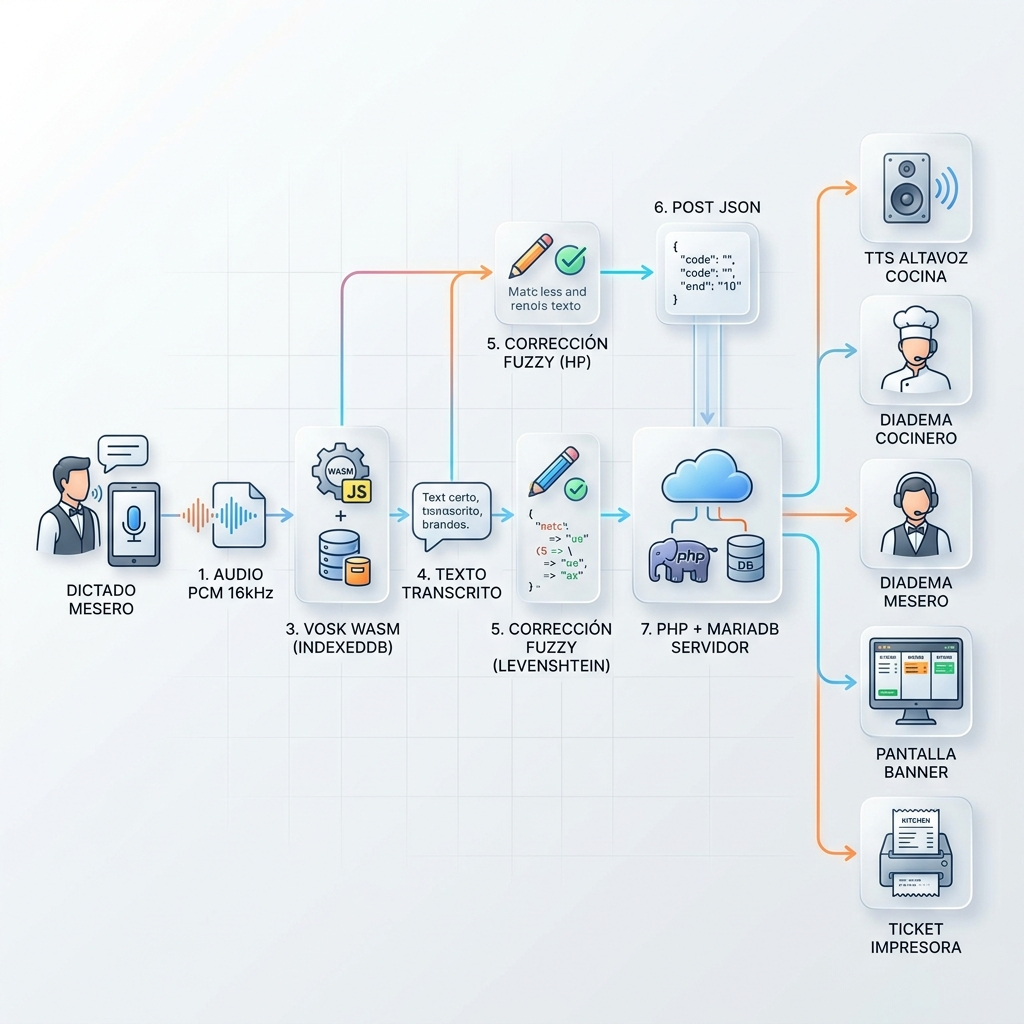
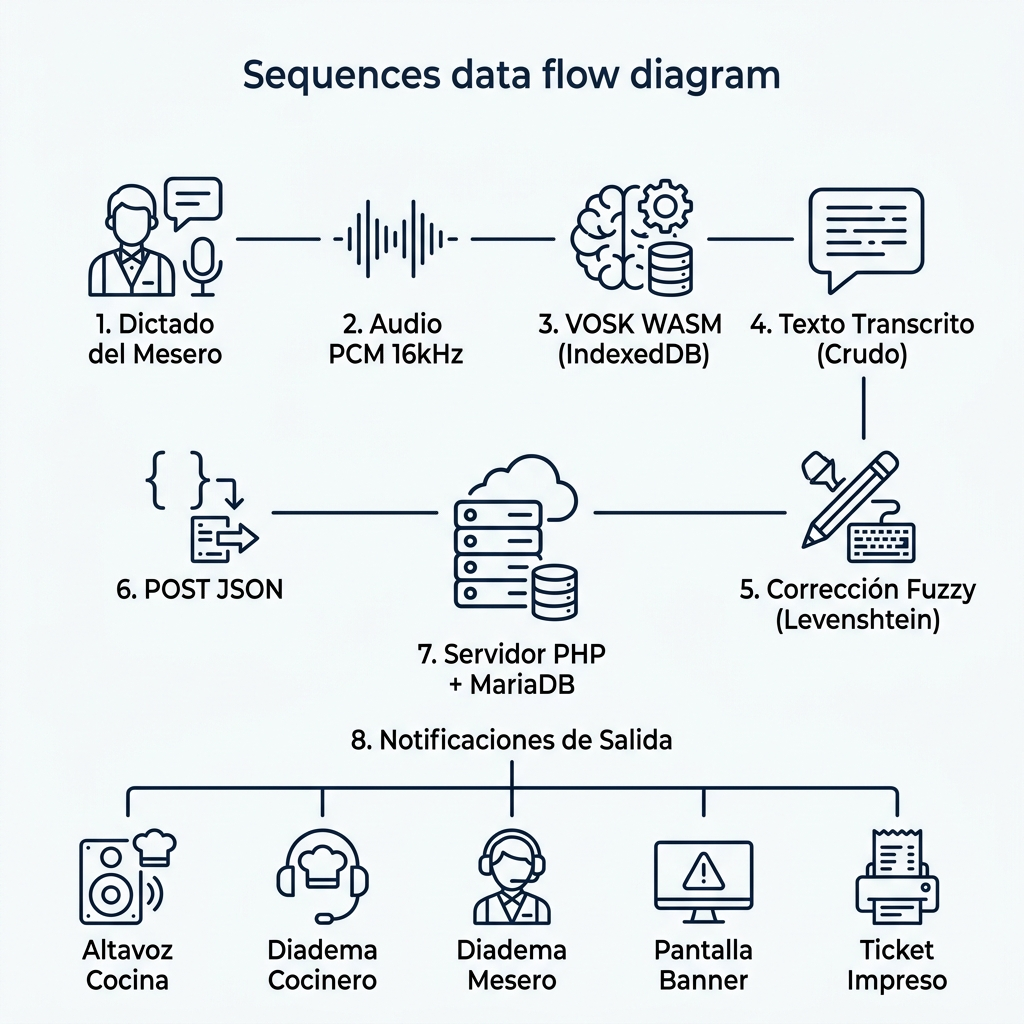
docs(vosk): redesign minimalist diagrams & add consolidated grammar tables

diff --git a/restaurantb/docs/Funcional_Flujos_Trabajo_Comandas_VOSK.html b/restaurantb/docs/Funcional_Flujos_Trabajo_Comandas_VOSK.html
@@ -157,6 +157,157 @@
   </ul>
 </section>
 
+<!-- ═══════════════ 8. CATÁLOGO COMPLETO DE GRAMÁTICA DE VOZ ═══════════════ -->
+<section id="sec8">
+  <h2>8. Catálogo Completo de Gramática de Voz y Comandos Operativos</h2>
+  <p>Esta sección reúne y consolida en tablas descriptivas todas las frases, oraciones y comandos reconocidos por el sistema, tanto en el flujo ordinario como en el manejo de excepciones y errores para cada uno de los actores.</p>
+
+  <h3 id="sec8-1">8.1. Gramática y Dictados de Voz del Mesero (PWA + VOSK WASM)</h3>
+  <p>La PWA del mesero implementa un motor VOSK con vocabulario amplio (catálogo de productos del restaurante, números y palabras de control). Soporta corrección difusa de palabras mediante el algoritmo Levenshtein con un límite máximo de distancia de 3 caracteres.</p>
+
+  <table>
+    <caption>Tabla 8. Catálogo de Frases y Excepciones para el Mesero</caption>
+    <thead>
+      <tr>
+        <th>Propósito / Evento</th>
+        <th>Gramática / Frase Base</th>
+        <th>Ejemplos de Dictado</th>
+        <th>Respuesta Auditiva (TTS)</th>
+        <th>Comportamiento ante Fallo / Excepción</th>
+      </tr>
+    </thead>
+    <tbody>
+      <tr>
+        <td><strong>Toma de Comanda Normal</strong></td>
+        <td><code>"Mesa [N], [cantidad] [producto], [cantidad] [producto]..."</code></td>
+        <td><em>"Mesa cinco, dos tacos al pastor con todo, una coca de medio"</em></td>
+        <td>(Ninguna en la diadema del mesero. Se emite por el altavoz de cocina: <em>"Nueva orden: mesa cinco, dos tacos al pastor, una coca de medio"</em>)</td>
+        <td><strong>Sin número de mesa:</strong> Tono de alerta en diadema y bloqueo físico del botón enviar.<br><strong>Producto no reconocido:</strong> Se resalta el término no identificado en color rojo en la pantalla para su edición manual antes del envío.</td>
+      </tr>
+      <tr>
+        <td><strong>Solicitud de Cancelación</strong></td>
+        <td><code>"Cancelar [producto] de mesa [N]"</code></td>
+        <td><em>"Cancelar agua de horchata de mesa cinco"</em></td>
+        <td><em>"Solicitud de cancelación enviada a cocina. Espere confirmación."</em></td>
+        <td><strong>Producto no existente:</strong> <em>"El producto no se encuentra en la comanda de la mesa cinco"</em>.<br><strong>Orden ya lista/entregada:</strong> <em>"Cancelación rechazada. La orden ya está terminada"</em>.<br><strong>Expiración (30 segundos sin respuesta del cocinero):</strong> <em>"Cancelación expirada por falta de confirmación en cocina"</em>.</td>
+      </tr>
+      <tr>
+        <td><strong>Cierre de Cuenta</strong></td>
+        <td><code>"Cerrar cuenta de mesa [N]"</code> o <code>"La cuenta de mesa [N] se va a cerrar"</code></td>
+        <td><em>"Cerrar cuenta de mesa cinco"</em></td>
+        <td><em>"Cuenta de mesa cinco. Total ciento cuarenta y cinco pesos. Tres productos. Ticket enviado a impresión."</em></td>
+        <td><strong>Mesa sin órdenes activas:</strong> <em>"No hay consumos registrados para la mesa cinco"</em>.<br><strong>Mesero no asignado a la mesa:</strong> <em>"Acceso denegado. Mesa asignada a otro mesero"</em>.</td>
+      </tr>
+      <tr>
+        <td><strong>Repetir Última Comanda</strong></td>
+        <td><code>"Repetir comanda de mesa [N]"</code></td>
+        <td><em>"Repetir comanda de mesa cinco"</em></td>
+        <td><em>"Mostrando última comanda de mesa cinco"</em></td>
+        <td><strong>Sin historial previo en esa mesa:</strong> <em>"No hay registros anteriores para la mesa cinco"</em>.</td>
+      </tr>
+      <tr>
+        <td><strong>Consultar Estado de Mesa</strong></td>
+        <td><code>"Estado de mesa [N]"</code></td>
+        <td><em>"Estado de mesa cinco"</em></td>
+        <td><em>"Mesa cinco: dos órdenes listas, una en preparación"</em></td>
+        <td><strong>Mesa inactiva/libre:</strong> <em>"La mesa cinco no tiene órdenes activas"</em>.</td>
+      </tr>
+    </tbody>
+  </table>
+
+  <h3 id="sec8-2">8.2. Gramática y Comandos de Voz del Cocinero (VOSK Secundario - Restringido)</h3>
+  <p>Para garantizar una precisión del 99.9% en el entorno ruidoso de la cocina, el motor VOSK secundario utiliza una gramática ultra-restringida en el navegador que contiene únicamente unas 30 palabras de control y números. No procesa nombres de productos del catálogo.</p>
+
+  <table>
+    <caption>Tabla 9. Catálogo de Comandos y Excepciones para el Cocinero</caption>
+    <thead>
+      <tr>
+        <th>Propósito / Evento</th>
+        <th>Comando Base</th>
+        <th>Ejemplos de Dictado</th>
+        <th>Respuesta TTS (Diadema)</th>
+        <th>Acción en Pantalla KDS / Altavoz</th>
+        <th>Comportamiento ante Fallo / Excepción</th>
+      </tr>
+    </thead>
+    <tbody>
+      <tr>
+        <td><strong>Iniciar Preparación por Mesa</strong></td>
+        <td><code>"Preparar mesa [N]"</code></td>
+        <td><em>"Preparar mesa cinco"</em></td>
+        <td><em>"Orden de mesa cinco en preparación"</em></td>
+        <td>Mueve la tarjeta de la mesa 5 a la columna "En Preparación". Anuncio push al mesero asignado.</td>
+        <td><strong>Mesa sin comandas pendientes:</strong> <em>"No hay órdenes pendientes para la mesa cinco"</em>.</td>
+      </tr>
+      <tr>
+        <td><strong>Iniciar Siguiente Orden (FIFO)</strong></td>
+        <td><code>"Preparar siguiente"</code></td>
+        <td><em>"Preparar siguiente"</em></td>
+        <td><em>"Siguiente orden: mesa cinco: dos tacos al pastor, una coca"</em></td>
+        <td>Mueve la comanda más antigua de "Pendiente" a "En Preparación" en pantalla.</td>
+        <td><strong>Cola de cocina vacía:</strong> <em>"No hay órdenes pendientes en cocina"</em>.</td>
+      </tr>
+      <tr>
+        <td><strong>Finalizar Comanda</strong></td>
+        <td><code>"Listo mesa [N]"</code></td>
+        <td><em>"Listo mesa cinco"</em></td>
+        <td><em>"Orden de mesa cinco marcada como lista"</em></td>
+        <td>Mueve la tarjeta a la columna "Listo". Emite mensaje TTS a diadema del mesero: <em>"Mesa cinco lista"</em>.</td>
+        <td><strong>Mesa no tomada previamente:</strong> <em>"La mesa cinco no está en preparación"</em>.</td>
+      </tr>
+      <tr>
+        <td><strong>Revertir Estado por Error</strong></td>
+        <td><code>"Recuperar mesa [N]"</code></td>
+        <td><em>"Recuperar mesa cinco"</em></td>
+        <td><em>"Orden de mesa cinco recuperada a preparación"</em></td>
+        <td>Regresa la tarjeta de la mesa 5 a la columna "En Preparación" en la pantalla banner.</td>
+        <td><strong>Sin estado de "Listo" previo:</strong> <em>"No hay órdenes listas recientes para la mesa cinco"</em>.</td>
+      </tr>
+      <tr>
+        <td><strong>Consultar Carga de Cocina</strong></td>
+        <td><code>"Ordenes pendientes"</code></td>
+        <td><em>"Ordenes pendientes"</em></td>
+        <td><em>"Tienes tres órdenes pendientes y dos en preparación"</em></td>
+        <td>(Ninguno. Operación puramente auditiva)</td>
+        <td>—</td>
+      </tr>
+      <tr>
+        <td><strong>Escuchar Productos de Orden</strong></td>
+        <td><code>"Repetir orden mesa [N]"</code></td>
+        <td><em>"Repetir orden mesa cinco"</em></td>
+        <td><em>"Mesa cinco: dos tacos al pastor, una coca"</em></td>
+        <td>(Ninguno. Operación puramente auditiva)</td>
+        <td>—</td>
+      </tr>
+      <tr>
+        <td><strong>Autorizar Cancelación Solicitada</strong></td>
+        <td><code>"Si, cancelar"</code> o <code>"Si"</code></td>
+        <td><em>"Si, cancelar"</em> o <em>"Si"</em></td>
+        <td><em>"Cancelación autorizada"</em></td>
+        <td>Altavoz: <em>"Cancelación autorizada: [producto] de mesa [N]"</em>. Quita el producto del KDS.</td>
+        <td><strong>Sin solicitud de mesero activa:</strong> <em>"No hay solicitudes de cancelación pendientes"</em>.</td>
+      </tr>
+      <tr>
+        <td><strong>Rechazar Cancelación Solicitada</strong></td>
+        <td><code>"No, no cancelar"</code> o <code>"No"</code></td>
+        <td><em>"No, no cancelar"</em> o <em>"No"</em></td>
+        <td><em>"Cancelación rechazada. Continúe preparando."</em></td>
+        <td>Mantiene el producto en el KDS. Notificación push al mesero asignado: "Cancelación rechazada por cocina".</td>
+        <td><strong>Sin solicitud de mesero activa:</strong> <em>"No hay solicitudes de cancelación pendientes"</em>.</td>
+      </tr>
+      <tr>
+        <td><strong>Comando No Reconocido</strong></td>
+        <td>(Cualquier otra palabra)</td>
+        <td><em>"¿Qué hay para la mesa cinco?"</em></td>
+        <td><em>"Comando no reconocido. Intente de nuevo."</em></td>
+        <td>(Ninguno)</td>
+        <td>El Web Worker de VOSK descarta la entrada al no coincidir con las reglas gramaticales y dispara el TTS de error.</td>
+      </tr>
+    </tbody>
+  </table>
+</section>
+
 </main>
 </body>
 </html>
+
